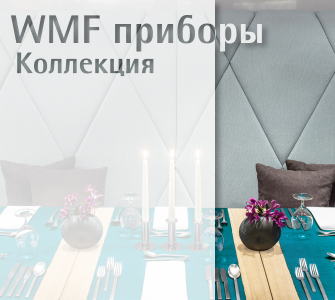
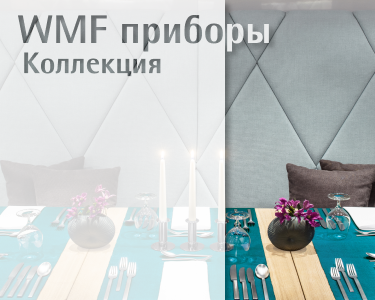
corrected about-tablewares

diff --git a/src/css/about-tablewares.css b/src/css/about-tablewares.css
@@ -17,7 +17,7 @@
 }
 
 .about-tablewares__banner-text {
-    width: 24.58vw;
+    width: 22.58vw;
     margin-top: 15.78vw;
     margin-left: 9.95vw;
 
@@ -380,6 +380,7 @@
     .about-tablewares__banner-text {
         width: 51.58vw;
         margin-top: 25.78vw;
+        margin-left: 6.5vw;
 
         font-size: 3.73vw;
     }
